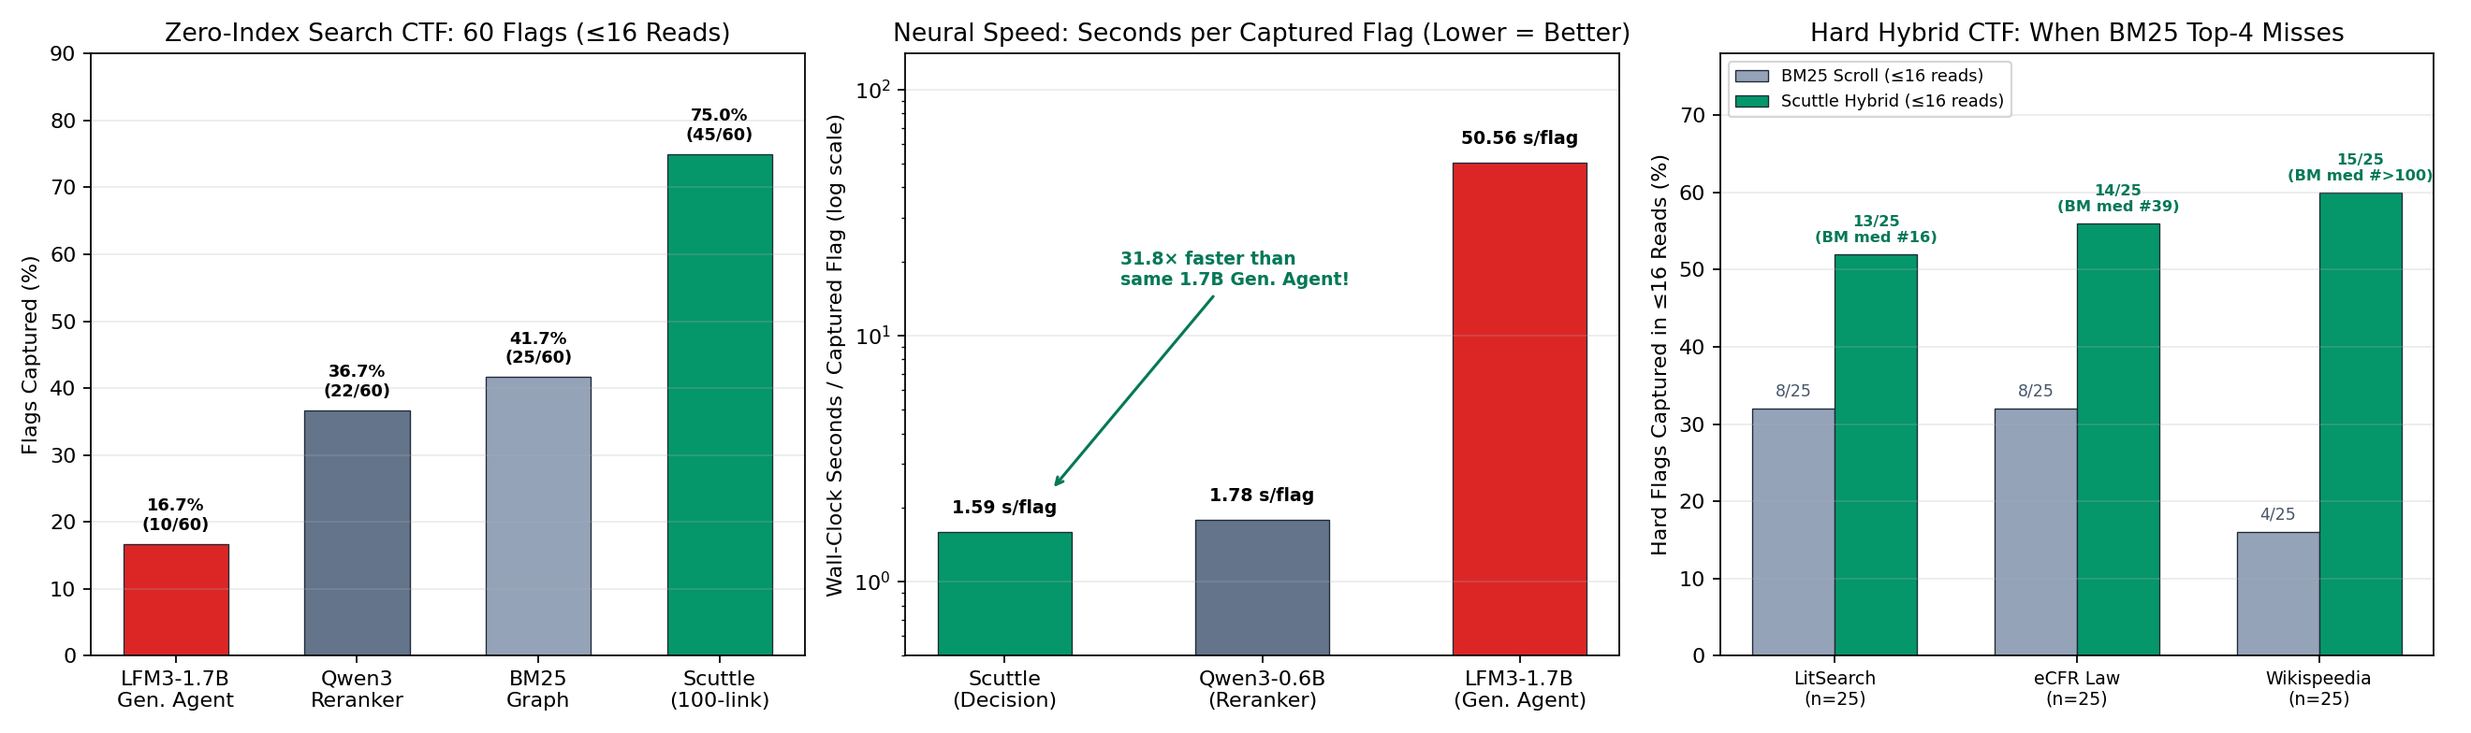
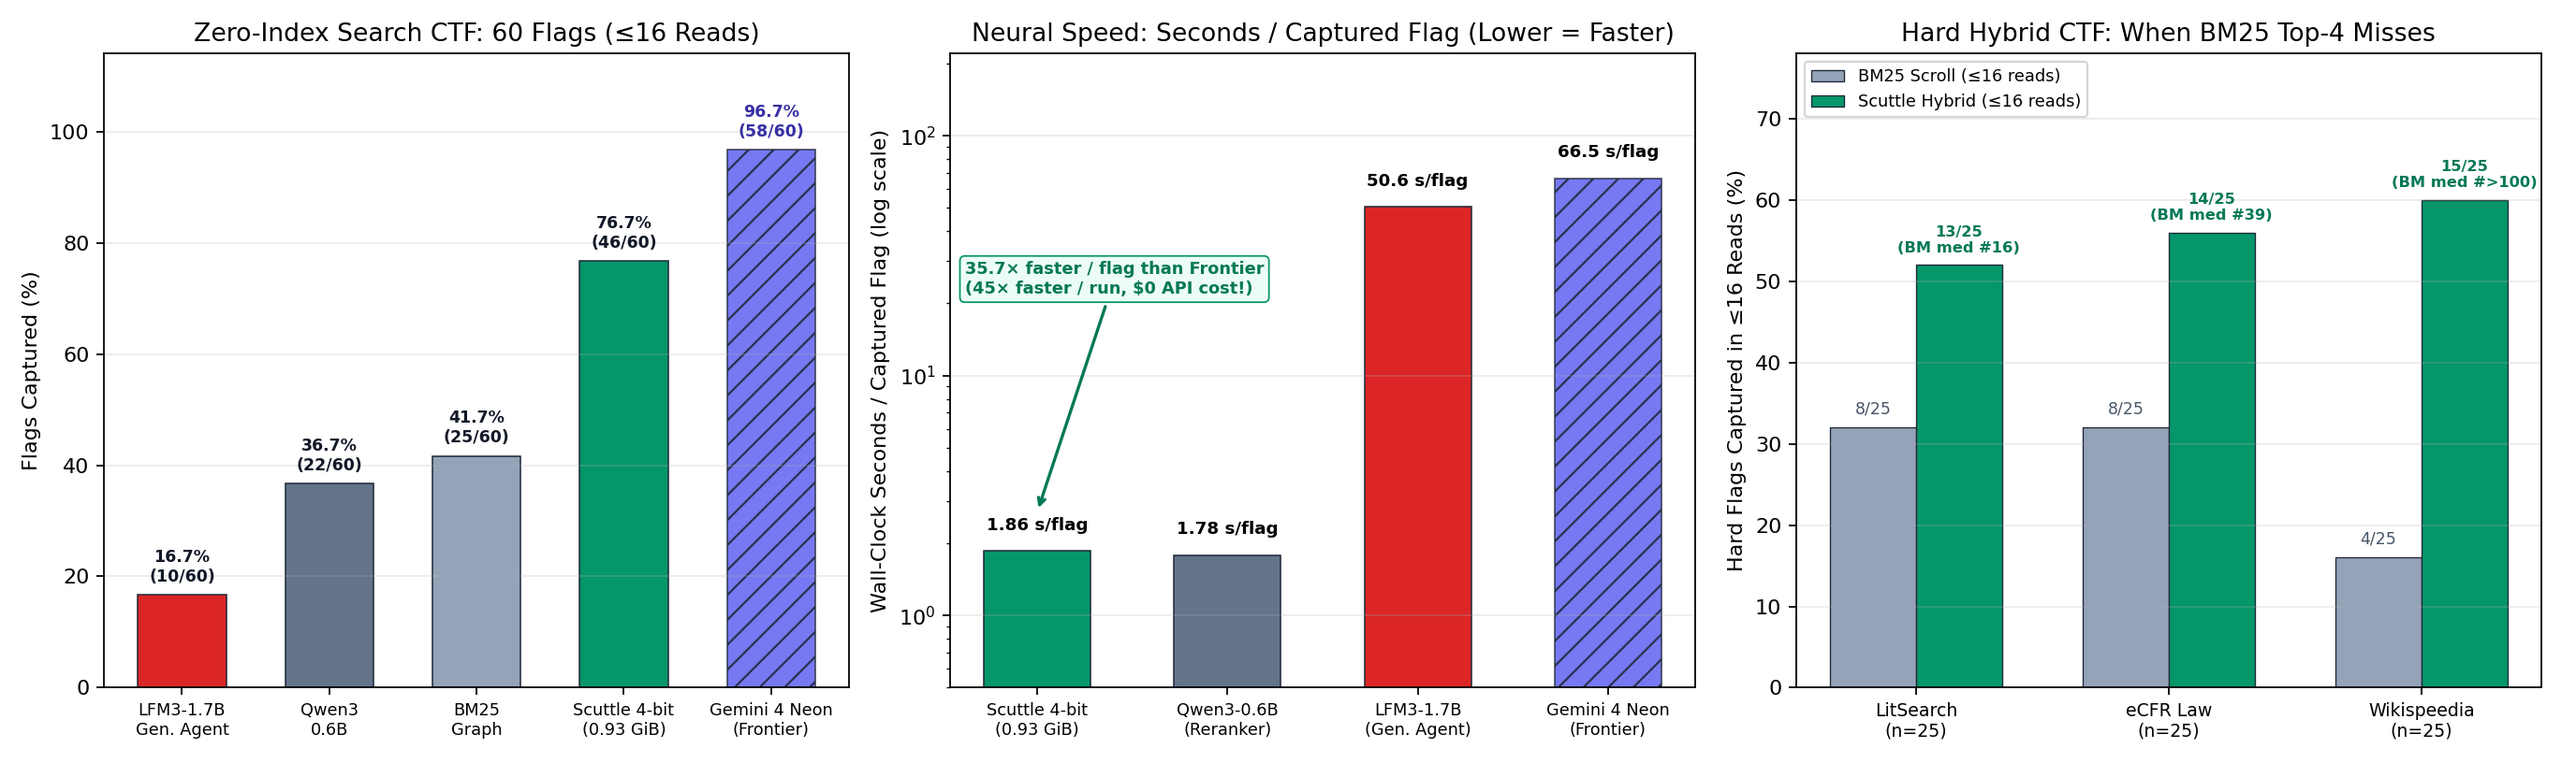
Update CTF chart with Gemini 4 Neon frontier baseline and add Pareto/quantization figure

diff --git a/WHITEPAPER.md b/WHITEPAPER.md
@@ -124,7 +124,9 @@ On US Federal Law, Scuttle solves hard cross-referenced queries in **0.92 second
 
 ---
 
-## 6. Low-VRAM Quantization Sweep (BF16 Down to 2-Bit PTQ)
+## 6. Low-VRAM Quantization Sweep & Frontier Pareto (BF16 Down to 1-Bit PTQ)
+
+![Scuttle Quantization & Frontier Pareto](assets/scuttle_quant_frontier.png)
 
 Because local GPUs are often shared with larger reasoning LLMs, we evaluated Scuttle (`tie_word_embeddings=true`, 15 KB fp32 decision heads) across full **BF16**, `bitsandbytes` **8-bit / 4-bit NF4**, and genuine bit-packed pure-PyTorch quantization of **both** Linear weights and LFM3's 262M-parameter embedding table (which accounts for 524 MB in BF16—nearly 40% of a `bitsandbytes` 4-bit model!) down to **3-bit** and **2-bit HQQ** on the exact same 60-flag Zero-Index CTF suite and 300-sample O55 Page Head slice:
 

diff --git a/README.md b/README.md
@@ -48,7 +48,9 @@ On an RTX 4090 in its default **pure-PyTorch 4-bit packed + 4-bit embedding** mo
 | **Wikispeedia** (Masked topics) | 448 | 37.5% → **61.2%** (+23.7, $p{<}10^{-20}$) | 24.6% → **52.2%** (+27.7) | **121 / 280 (43.2%)** |
 | **Combined** | **1,049** | **48.5% → 62.6% (+14.1 pts)** | **31.1% → 47.3% (+16.2 pts)** | **210 / 540 (38.9%)** |
 
-### 3. Low-VRAM Quantization Sweep (BF16 Down to 2-Bit PTQ)
+### 3. Low-VRAM Quantization Sweep & Frontier Pareto (BF16 Down to 1-Bit PTQ)
+
+![Scuttle Quantization & Frontier Pareto](assets/scuttle_quant_frontier.png)
 
 | Precision | Static VRAM | Peak VRAM (100-link) | 60-Flag CTF Solved | Retention | Latency / Run | Page AUC / F1 |
 | --- | ---: | ---: | ---: | ---: | ---: | ---: |
